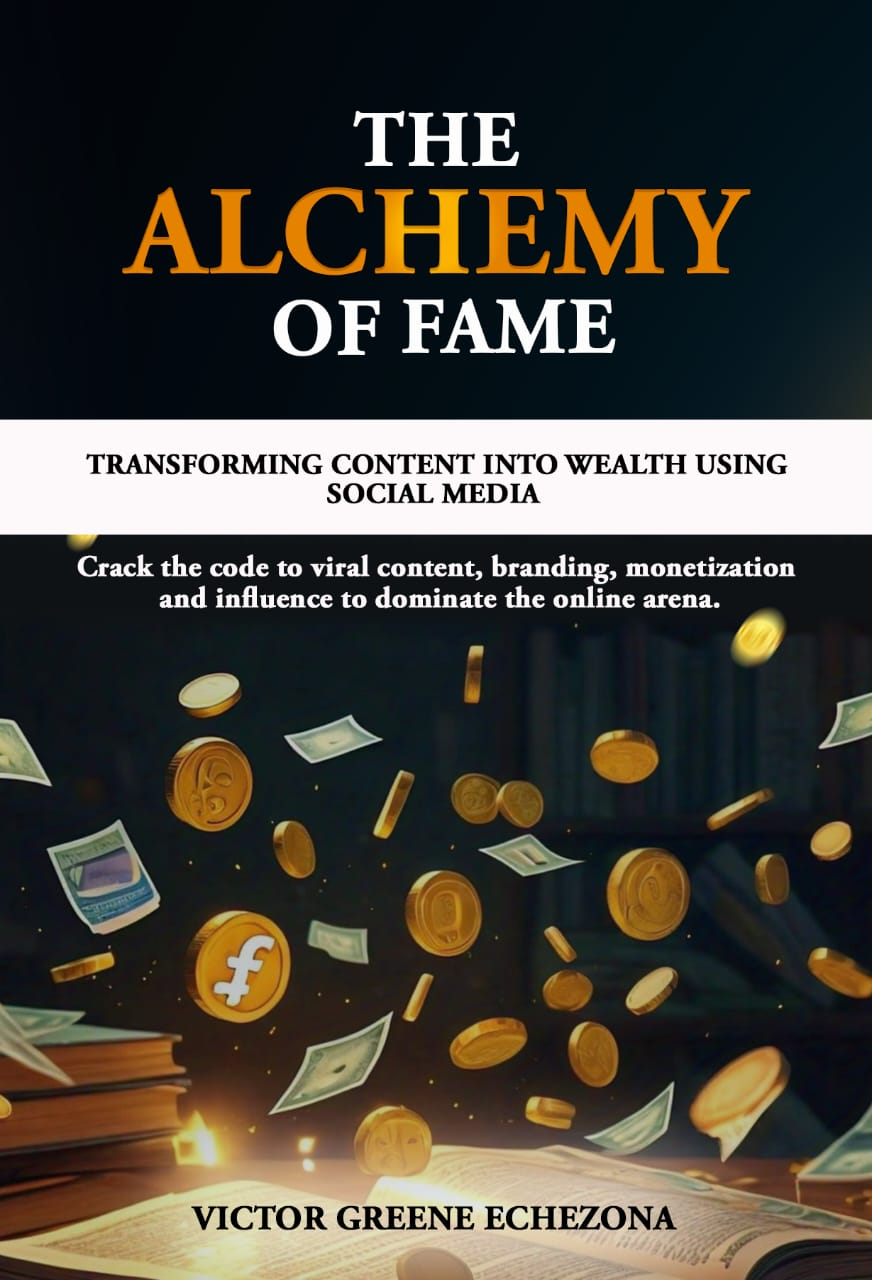
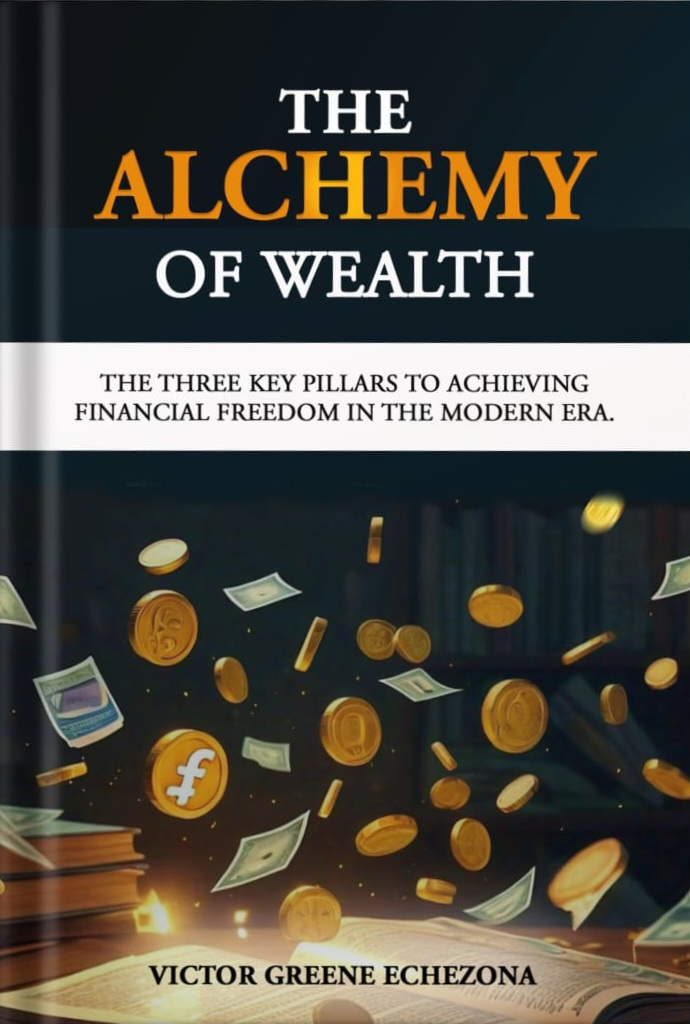
Changed second book image and also added some text explaing about the book

diff --git a/src/components/second-book-section/index.jsx b/src/components/second-book-section/index.jsx
@@ -46,19 +46,28 @@ export const SecondBookSection = () => {
               </div>
             </div>
 
-            <h2>the alchemy of fame</h2>
+            <h2>the alchemy of wealth</h2>
 
             <div className="txt">
               <p>
-                Lorem ipsum dolor sit amet consectetur, adipisicing elit.
-                Mollitia sint dolores autem dolore exercitationem beatae soluta,
-                inventore perspiciatis rerum tempore nisi facere facilis
-                molestias odio voluptates accusantium nesciunt dolor maxime?
+                When you purchase our comprehensive guide on mastering the art
+                of branding & content creation, to get monetized, you’ll also
+                receive an invaluable bonus: our exclusive ebook on wealth
+                creation.
               </p>
 
               <p>
-                Lorem ipsum dolor sit amet consectetur adipisicing elit. Veniam
-                nisi fuga doloremque, sed consectetur dolorum iusto .
+                This is bonus ebook provides a deep dive into the essence of
+                wealth creation. It equips you with the knowledge and tools to
+                not only succeed in your branding efforts but also to unlock new
+                avenues of financial and personal growth.
+              </p>
+
+              <p>
+                In many ways, this wealth creation guide can be even more
+                beneficial to you than the main book itself, elevating your
+                financial and personal achievements to new heights. Don’t miss
+                this transformative opportunity!
               </p>
             </div>
 

diff --git a/src/components/second-book-section/style.scss b/src/components/second-book-section/style.scss
@@ -16,7 +16,7 @@
 
     .txt_con {
       padding-right: 500px;
-      padding-top: 90px;
+      padding-top: 50px;
       padding-bottom: 120px;
 
       .rating_section {
@@ -75,8 +75,8 @@
         line-height: 22px;
 
         p {
-          &:first-child {
-            padding-bottom: 10px;
+          &:not(:first-child) {
+            padding-top: 10px;
           }
         }
       }
@@ -86,7 +86,7 @@
       }
     }
 
-    @media (max-width: 900px) {
+    @media (max-width: 1000px) {
       .img_con {
         position: relative;
         max-width: 300px;

diff --git a/src/components/intro-section/style.scss b/src/components/intro-section/style.scss
@@ -39,7 +39,7 @@
           display: flex;
           align-items: center;
           justify-content: center;
-          padding-top: 7px;
+          padding-top: 5px;
           height: fit-content;
         }
       }
